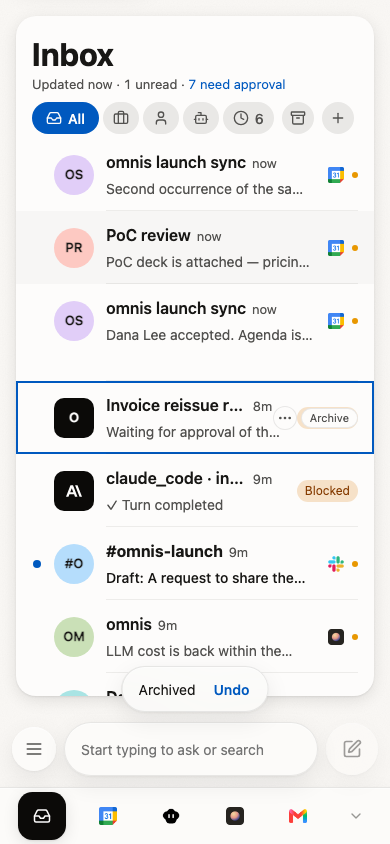
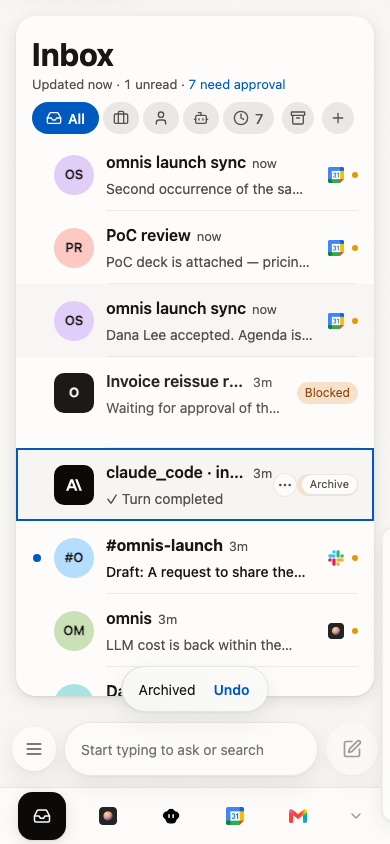
loop-r1-06: The second archive keeps its own undo window, checked on the live stack
The RTL tests pin the pill's contract; this is the half only the running app can
answer, and it is the exact sequence the rejection described: `j e j e` down the
list, two toasts reading "Archived" three seconds apart.

The check parks the pointer in a corner first — a hovered pill holds its timer
on purpose, so a hover here would make the assertion pass for the wrong reason —
then waits 2.6s past the second archive. That is 5.6s from the first, past the
point the first toast's clock would have fired had it been left running, and
well inside the window the second toast is owed. A pill still saying "Archived"
there is the fix working; under the bug it was gone 2s early with its Undo.

The row the first archive strands (its undo went with its toast) is put back
through the Archived view's own restore, which is the brief's other sentence,
and the row is clicked rather than walked to with `j`: a just-toggled row is in
both lists for its leave animation, so "the next row along" names the wrong row
where the row's own id names the right one. The seed is left whole.

Implemented-by: DeepSeek V4.1 Flash

diff --git a/tools/e2e/shots-loop-r1-06.ts b/tools/e2e/shots-loop-r1-06.ts
@@ -10,14 +10,17 @@
 //     pnpm tsx tools/e2e/hold.ts --web
 //   pnpm tsx tools/e2e/shots-loop-r1-06.ts   (desktop http://127.0.0.1:5373)
 //
-// Four checks, in the order a person hits them:
+// Five checks, in the order a person hits them:
 //   1. Archive with `e`: the row leaves, "Archived · Undo" is on screen, and `z` puts the row back —
 //      with threads.archived_at NULL again, which is the half the screen cannot prove.
-//   2. Ignore: the card leaves the queue, the toast offers the undo, and the Undo means the hub was
+//   2. Two archives 3s apart (`j e j e`): the second "Archived" toast keeps its own clock rather
+//      than inheriting the first one's, and `z` still undoes the second archive. The row the first
+//      archive left behind is restored from the Archived view, so the seed is whole.
+//   3. Ignore: the card leaves the queue, the toast offers the undo, and the Undo means the hub was
 //      never told — asserted on the *requests* (none) and then on state='pending' still being there.
-//   3. Approve through the confirmation: "Approved: …" with no undo, and decision='accept' in the
+//   4. Approve through the confirmation: "Approved: …" with no undo, and decision='accept' in the
 //      database.
-//   4. 390: the toast clears the BottomBar instead of sitting behind it.
+//   5. 390: the toast clears the BottomBar instead of sitting behind it.
 //
 // The 390 pass is a resize of the same page rather than a second page: both screenshots the brief
 // wants are the same moment at two widths.
@@ -200,6 +203,105 @@ async function main(): Promise<void> {
       `threads.archived_at to be NULL and the row to be back for ${threadId}`,
     );
     console.log("  `z` put it back: the row is listed and threads.archived_at is NULL again");
+
+    // ---- 1b. Two archives in a row: the second toast keeps its own clock --------------------------
+    // `j e j e` is the core triage loop, and both toasts say the same word — "Archived" — which is
+    // what a countdown keyed on the message cannot tell apart. Under that bug the second pill is
+    // dismissed on the *first* one's clock: 2s after its own archive, taking its Undo and `z` with
+    // it. The pointer is parked in the corner first: a hovered pill holds its timer on purpose, and
+    // a hover here would make this pass for the wrong reason.
+    await page.mouse.move(0, 0);
+    /** `j` to the selected row, `e` to archive it, and the toast that answers. */
+    const archiveSelected = async (): Promise<string> => {
+      await page.keyboard.press("j");
+      const id = await page
+        .locator('.inbox-row[aria-selected="true"]')
+        .getAttribute("data-thread-id");
+      if (id === null) throw new Error("`j` selected no row to archive");
+      await page.keyboard.press("e");
+      await waitForToast(page, (toast) => toast.message === ARCHIVED, `"${ARCHIVED}"`);
+      return id;
+    };
+    const firstId = await archiveSelected();
+    // The gap is most of the first toast's window, so the second toast arrives with the first one's
+    // clock nearly run out rather than with it already gone.
+    await page.waitForTimeout(3_000);
+    const secondId = await archiveSelected();
+
+    // 2.6s on: the live toast is 2.6s old, and the first toast's clock — had it been left running —
+    // is 5.6s and would have fired. This is the assertion that fails when it does.
+    await page.waitForTimeout(2_600);
+    const survivor = await readToast(page);
+    if (survivor?.message !== ARCHIVED) {
+      throw new Error(
+        `the second "${ARCHIVED}" toast was gone 2.6s after its own archive ` +
+          `(read ${JSON.stringify(survivor)}) — it was dismissed on the first toast's clock`,
+      );
+    }
+    // And the undo is the second archive's: `z` restores the row *this* toast names.
+    await page.keyboard.press("z");
+    await waitForToast(page, (toast) => toast.message === RESTORED, "the second undo's toast");
+    await poll(
+      async () => {
+        const rows = await query<{ archived_at: Date | null }>(
+          pool,
+          "SELECT archived_at FROM threads WHERE id = $1",
+          [secondId],
+        );
+        return {
+          archivedAt: rows[0]?.archived_at ?? null,
+          listed: await page.locator(`.inbox-row[data-thread-id="${secondId}"]`).count(),
+        };
+      },
+      (state) => state.archivedAt === null && state.listed === 1,
+      `threads.archived_at to be NULL and the row to be back for ${secondId}`,
+    );
+    console.log(
+      `  archived ${firstId} and ${secondId} 3s apart: the second "${ARCHIVED}" outlived the first one's clock, and \`z\` still put the second row back`,
+    );
+
+    // The first archive has no key left to undo it — the second toast replaced its undo — so the row
+    // goes back the way a person would put it back: the Archived view's own restore, which is the
+    // brief's other sentence ("Moved to Inbox").
+    //
+    // The row is clicked, not walked to with `j`: a row that has just been toggled is in *both* lists
+    // for the length of its leave animation (applyArchiveView's `leaving`), so the restored row is
+    // still in this one and sorts above the row that was stranded — "the next row along" names the
+    // wrong row here, while the row's own id names the right one. The `aria-pressed` wait is the
+    // other half of the same care: without it the click races the view switch and lands in the inbox.
+    const archivedPill = page.locator(".inbox-card__archived-pill");
+    await archivedPill.click();
+    await page
+      .locator('.inbox-card__archived-pill[aria-pressed="true"]')
+      .waitFor({ timeout: 5_000 });
+    const strandedRow = page.locator(`.inbox-row[data-thread-id="${firstId}"]`);
+    await strandedRow.waitFor({ timeout: 5_000 });
+    await strandedRow.click();
+    if ((await strandedRow.getAttribute("aria-selected")) !== "true") {
+      throw new Error(`clicking ${firstId} in the Archived view did not select it`);
+    }
+    await page.keyboard.press("u");
+    await waitForToast(page, (toast) => toast.message === RESTORED, "the Archived view's restore");
+    await poll(
+      async () => {
+        const rows = await query<{ archived_at: Date | null }>(
+          pool,
+          "SELECT archived_at FROM threads WHERE id = $1",
+          [firstId],
+        );
+        return rows[0]?.archived_at ?? null;
+      },
+      (archivedAt) => archivedAt === null,
+      `threads.archived_at to be NULL for ${firstId}`,
+    );
+    // Back to the inbox, where the checks below start — and waited for, for the same reason.
+    await archivedPill.click();
+    await page
+      .locator('.inbox-card__archived-pill[aria-pressed="false"]')
+      .waitFor({ timeout: 5_000 });
+    console.log(
+      `  and the Archived view restored ${firstId} with its own "${RESTORED}" toast — the seed is whole`,
+    );
 
     // ---- 2. Ignore, held back until its toast goes ------------------------------------------------
     const ignored = await topApproval(pool, page);
